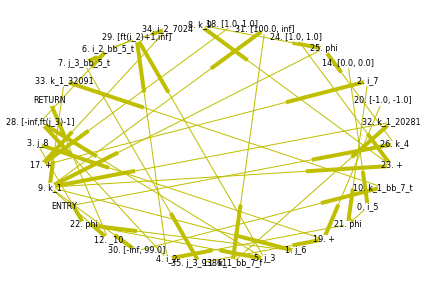
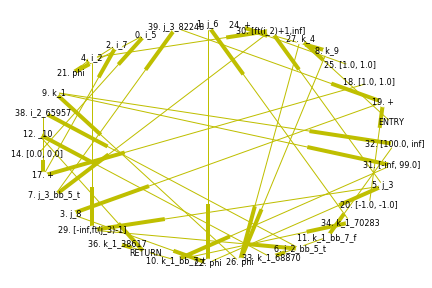
demo image

Changed region(s): [[0.0, 0.0625, 0.9931, 0.9375], [0.4213, 0.1875, 0.4514, 0.2188], [0.3912, 0.2188, 0.4213, 0.25]]

diff --git a/src/cfg_plot.py b/src/cfg_plot.py
@@ -110,7 +110,7 @@ def get_op():
     if '-h' in args or '--help' in args:
         print_help()
     if len(args) == 1:
-        path = '../benchmark/t7.ssa'
+        path = '../benchmark/t2.ssa'
         out = '../output'
     elif len(args) == 3:
         if args[1] in ['-P', '--path']:

diff --git a/src/constraint_plot.py b/src/constraint_plot.py
@@ -77,7 +77,7 @@ def get_op():
     if '-h' in args or '--help' in args:
         print_help()
     if len(args) == 1:
-        path = '../benchmark/t7.ssa'
+        path = '../benchmark/t2.ssa'
         out = '../output'
     elif len(args) == 3:
         if args[1] in ['-P', '--path']:

diff --git a/README.md b/README.md
@@ -106,15 +106,89 @@ The detail of the widen-ft-narrow process is in [RA source code](https://github.
 
 ## Demonstrations
 
-![CFG for 'bar' in t7.ssa](https://github.com/LC-John/RangeAnalysis/blob/master/img/t7_cfg_bar.png)
+Original C/C++ source code
 
-![CFG for 'foo' in t7.ssa](https://github.com/LC-John/RangeAnalysis/blob/master/img/t7_cfg_foo.png)
+```C
+/*
+ * file: t2.c
+ * input: k in [200, 300]
+ * output: k in [200, 300]
+ */
+int foo(int k) {
+  while (k < 100) {
+    int i = 0;
+    int j = k;
+    while (i < j) {
+      i = i + 1;
+      j = j - 1;
+    }
+    k = k + 1;
+  }
+  return k;
+}
+```
 
-![CG for 'bar' in t7.ssa](https://github.com/LC-John/RangeAnalysis/blob/master/img/t7_cg_bar.png)
+SSA file
 
-![CG for 'foo' in t7.ssa](https://github.com/LC-John/RangeAnalysis/blob/master/img/t7_cg_foo.png)
+```C
+;; Function foo (foo, funcdef_no=0, decl_uid=1831, cgraph_uid=0, symbol_order=0)
 
-![Full-CG for 'foo' in t7.ssa](https://github.com/LC-John/RangeAnalysis/blob/master/img/t7_cg_full.png)
+foo (int k)
+{
+  int j;
+  int i;
+  int D.1842;
+  int _10;
+
+  <bb 2>:
+  goto <bb 7>;
+
+  <bb 3>:
+  i_5 = 0;
+  j_6 = k_1;
+  goto <bb 5>;
+
+  <bb 4>:
+  i_7 = i_2 + 1;
+  j_8 = j_3 + -1;
+
+  <bb 5>:
+  # i_2 = PHI <i_5(3), i_7(4)>
+  # j_3 = PHI <j_6(3), j_8(4)>
+  if (i_2 < j_3)
+    goto <bb 4>;
+  else
+    goto <bb 6>;
+
+  <bb 6>:
+  k_9 = k_1 + 1;
+
+  <bb 7>:
+  # k_1 = PHI <k_4(D)(2), k_9(6)>
+  if (k_1 <= 99)
+    goto <bb 3>;
+  else
+    goto <bb 8>;
+
+  <bb 8>:
+  _10 = k_1;
+
+<L6>:
+  return _10;
+}
+```
+
+CFG
+
+![CFG for 'foo' in t7.ssa](https://github.com/LC-John/RangeAnalysis/blob/master/img/t2_cfg_foo.png)
+
+CG / Full-CG
+
+![CG for 'bar' in t7.ssa](https://github.com/LC-John/RangeAnalysis/blob/master/img/t2_cg_foo.png)
+
+Range analysis result
+
+![Full-CG for 'foo' in t7.ssa](https://github.com/LC-John/RangeAnalysis/blob/master/img/t2_ra_foo.png)
 
 ## References
 
